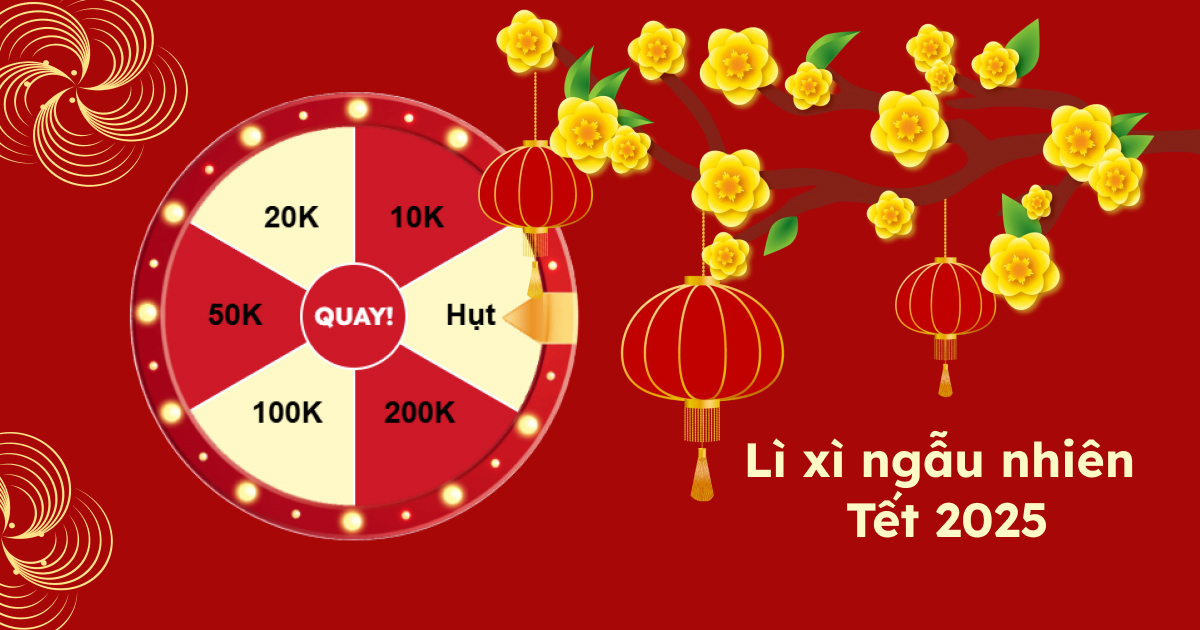
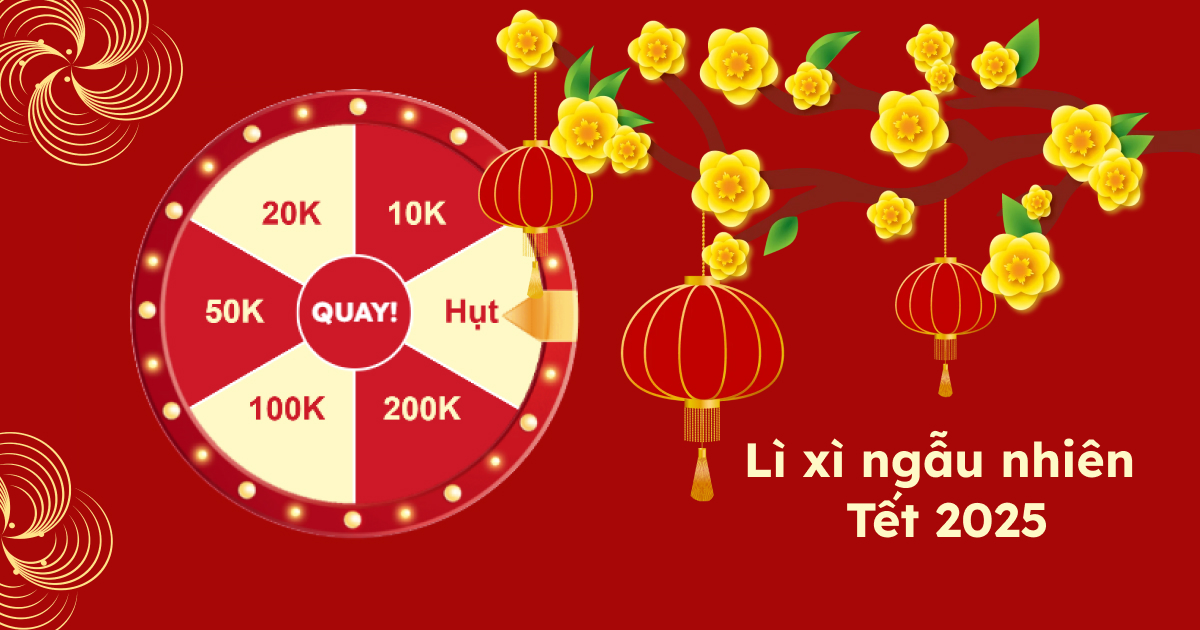
fix UI

diff --git a/src/components/LuckyWheel.jsx b/src/components/LuckyWheel.jsx
@@ -53,13 +53,16 @@ const LuckyWheel = () => {
             anchor: "center",
             align: "end",
             clamp: true,
-            color: "#000",
-            formatter: (_, context) =>
-              context.chart.data.labels[context.dataIndex],
+            formatter: (_, context) => {
+              const label = context.chart.data.labels[context.dataIndex];
+              return label;
+            },
             font: {
               size: 24,
               weight: "bold",
             },
+            color: (context) =>
+              context.dataIndex % 2 === 0 ? "#FEF9C6" : "#CD1928",
           },
         },
       },
@@ -138,7 +141,7 @@ const LuckyWheel = () => {
       <audio ref={audioRef} autoPlay loop>
         <source src="/audio/bg.mp3" type="audio/mp3" />
       </audio>
-      <div className="container mx-auto w-full xl:max-w-md lg:max-w-md flex justify-center items-center h-screen flex-col overflow-hidden gap-4 bg-[#A70706] relative">
+      <div className="container mx-auto w-full xl:max-w-md lg:max-w-md flex justify-center items-center h-dvh flex-col overflow-hidden gap-4 bg-[#A70706] relative">
         <button
           onClick={toggleAudio}
           className="absolute top-4 left-4 bg-[#CD1928] p-2 rounded-full shadow-md z-50 outline-none ring-0 focus:outline-none focus:ring-0"
